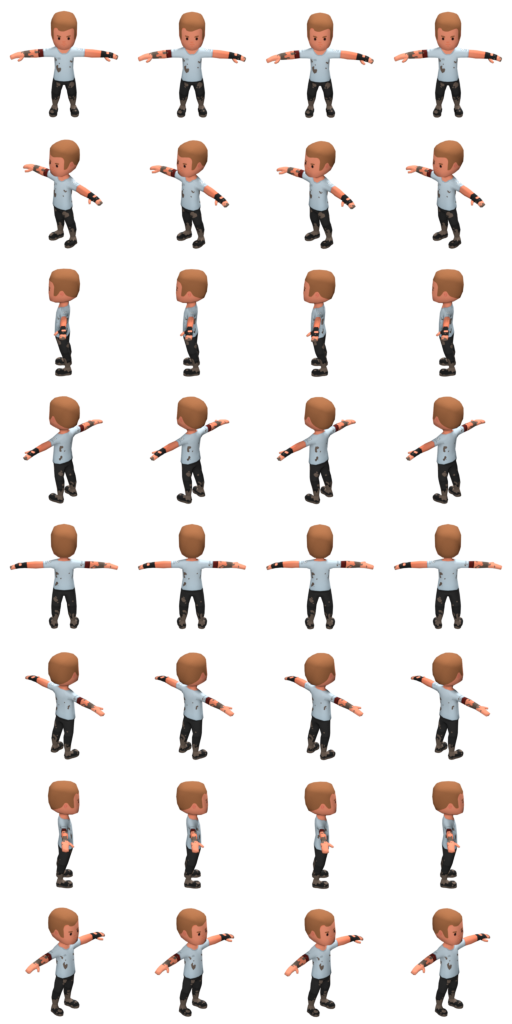
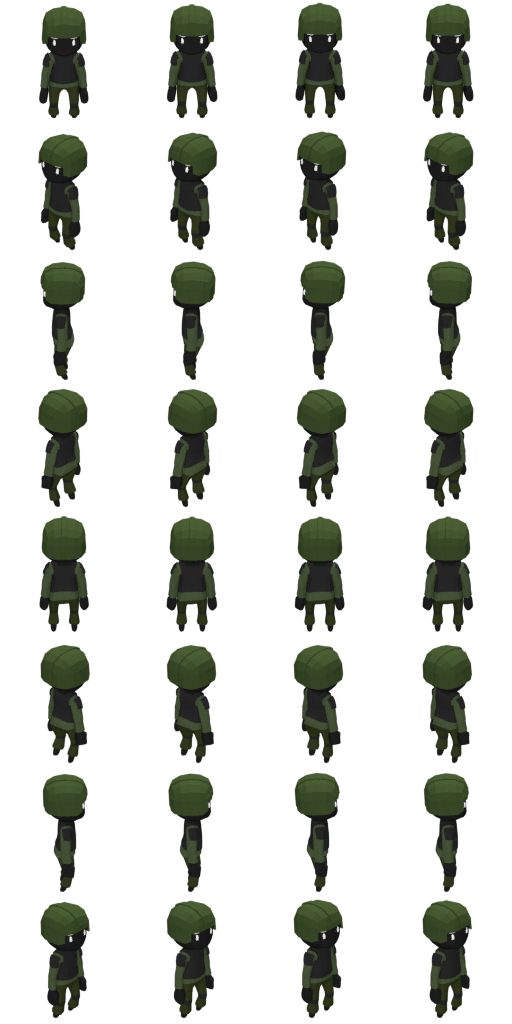
Doi sang art Quaternius: chat luong cao hon va CO hoat canh chet
Bo Ultimate Animated Character Pack (CC0) hon han bo Kenney truoc do: 52 nhan vat,
17 hoat canh moi con gom Walk, Run, Death, Punch, Shoot_OneHanded, Idle.

Nguoi choi dung Soldier_Male, walker dung Zombie_Male voi hoat canh Walk (le buoc),
runner dung Zombie_Female voi hoat canh Run - hai dang di khac han nhau chu khong
con dung chung mot hoat canh nhu bo Kenney.

Quan trong nhat: co hoat canh Death. He thong xac chet dung tu Version 15 toi gio
van nam khong gio moi that su chay - zombie nga xuong va nam lai cho toi het hoat
canh thay vi no thanh hat.

Bo nay phat hanh ca dinh dang .blend nen bo qua duoc luon hai loi cua duong FBX:
khong con Alpha = 0 va khong con phai gan slot cho action.

Dung o 96px cho zombie thay vi 128: tren man hinh chung chi cao khoang 40px nen
128 la thua. Tong asset 2,4 MB, giam tu 3,4 MB cua bo Kenney du chat luong cao hon
va co them hoat canh chet.

Do: 60 FPS phang o mat do 2,5x voi 192 quai. Van day du 632 giay, bot choi tron va
THANG. Luong cuoi man chay toi man thang.

diff --git a/index.html b/index.html
@@ -2408,22 +2408,24 @@
   // làm nhân vật trôi lệch khỏi bóng của nó, nên nó là tham số riêng chứ không đoán.
   var ANIM_FPS = { idle:6, walk:12, die:14, attack:14 };
 
-  // Art từ bộ "Animated Characters Survivors" của Kenney (CC0), render sẵn 8 hướng bằng
+  // Art từ "Ultimate Animated Character Pack" của Quaternius (CC0), render sẵn 8 hướng bằng
   // tools/render_sprites.py ở góc nghiêng 60° — khớp với LEAN của phép chiếu trong game.
-  // Bộ này chỉ có idle/jump/run, KHÔNG có hoạt cảnh chết, nên quái chết vẫn nổ thành hạt.
-  // fps riêng từng loại: walker lê bước chậm, runner chạy nhanh, dùng chung một hoạt cảnh.
+  //
+  // Bộ này CÓ hoạt cảnh chết, nên hệ thống xác chết dựng từ Version 15 giờ mới thật sự chạy:
+  // zombie ngã xuống và nằm lại cho tới hết hoạt cảnh, thay vì nổ thành hạt.
+  // Walker dùng hoạt cảnh Walk (lê bước), runner dùng Run — hai dáng đi khác hẳn nhau.
   var SKIN = {
-    player: { dirs:8, hMul:3.5, foot:0.882, fps:{ walk:12 },
+    player: { dirs:8, hMul:3.0, foot:0.919, fps:{ walk:14 },
               anims:{ walk:"pl_walk", idle:"pl_idle" } },
-    walker: { dirs:8, hMul:3.3, foot:0.882, fps:{ walk:7 },
-              anims:{ walk:"zA_walk", idle:"zA_idle" } },
-    runner: { dirs:8, hMul:3.3, foot:0.882, fps:{ walk:14 },
-              anims:{ walk:"zC_walk", idle:"zC_idle" } }
+    walker: { dirs:8, hMul:3.0, foot:0.918, fps:{ walk:9 },
+              anims:{ walk:"zm_walk", die:"zm_die" } },
+    runner: { dirs:8, hMul:2.9, foot:0.919, fps:{ walk:15 },
+              anims:{ walk:"zf_walk", die:"zf_die" } }
   };
   loadArt({
     pl_walk:"assets/pl_walk.png", pl_idle:"assets/pl_idle.png",
-    zA_walk:"assets/zA_walk.png", zA_idle:"assets/zA_idle.png",
-    zC_walk:"assets/zC_walk.png", zC_idle:"assets/zC_idle.png"
+    zm_walk:"assets/zm_walk.png", zm_die:"assets/zm_die.png",
+    zf_walk:"assets/zf_walk.png", zf_die:"assets/zf_die.png"
   });
 
   function skinImg(kind, anim){
